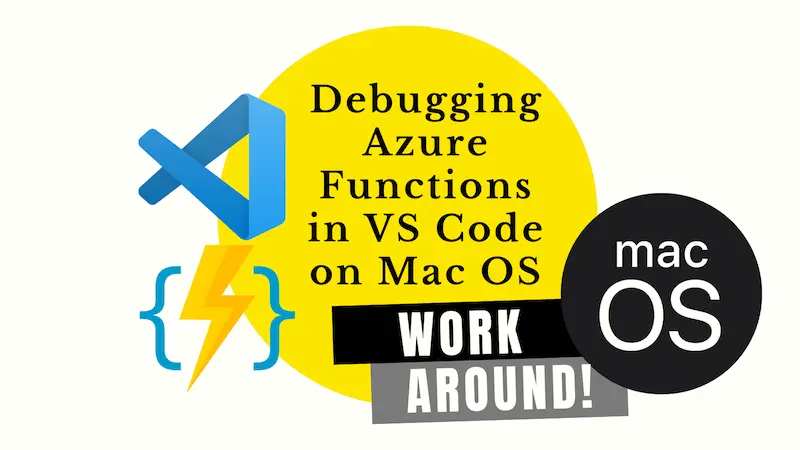
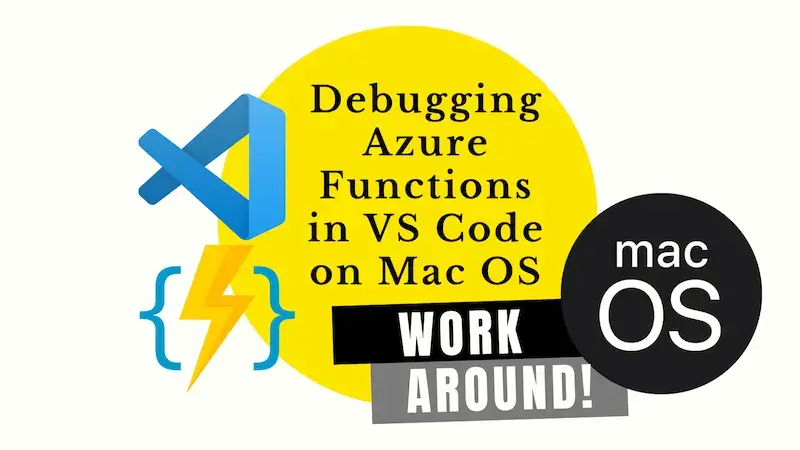
feat: shrink

diff --git a/blog-website/blog/2022-11-11-debugging-azure-functions-vs-code-mac-os/index.md b/blog-website/blog/2022-11-11-debugging-azure-functions-vs-code-mac-os/index.md
@@ -34,7 +34,7 @@ codesign -s my-codesign-cert vsdbg-ui && codesign -s my-codesign-cert vsdbg
 
 A thing to note about the above is the version in the path. You'll need to change that to match the version of the C# extension that you have installed. You can find the version in the VS Code extensions view:
 
-![Screenshot of C# extension in VS Code; in this case version 1.25.2](screenshot-csharp-extension-vs-code.png)
+![Screenshot of C# extension in VS Code; in this case version 1.25.2](screenshot-csharp-extension-vs-code.webp)
 
 In this case the version is `1.25.2`; as is reflected in the path above.
 
